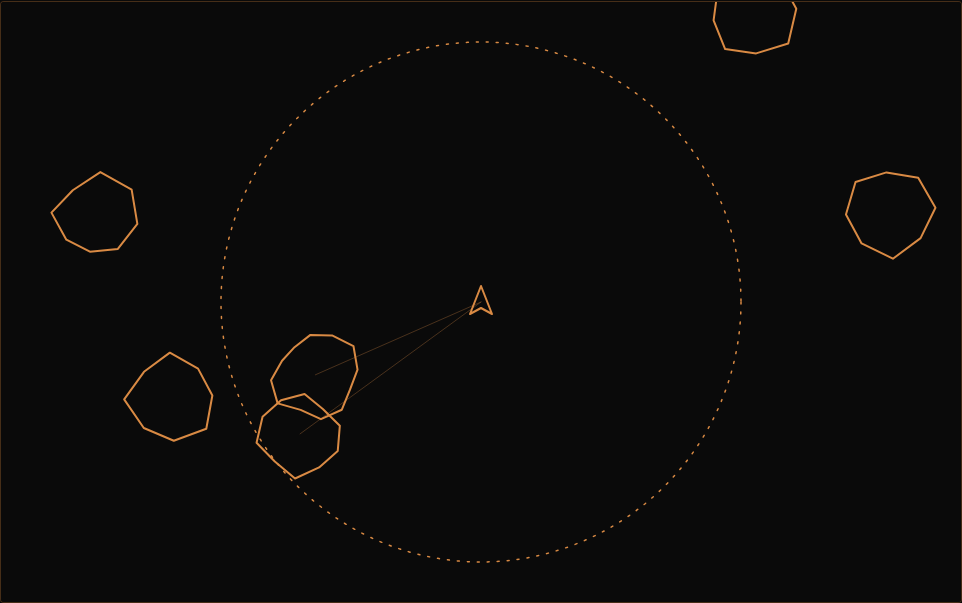
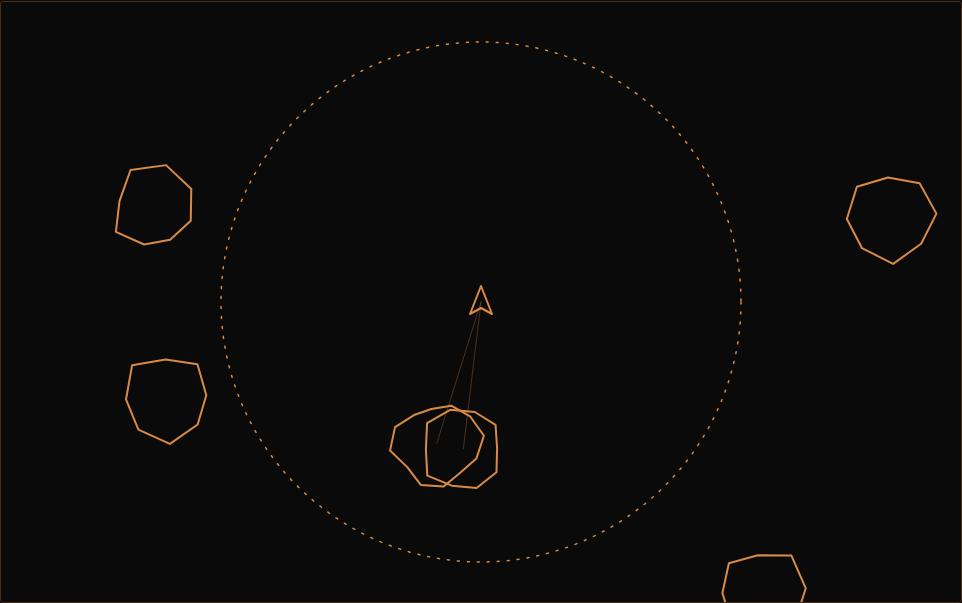
fix: vortex captures motes in orbit instead of flinging them out
The first vortex used a constant tangential force plus a small inward bias.
That isn't a real centripetal force: tangential speed accumulated to the
clamp and spiralled motes outward until they left the field's reach and flew
off — so holding both keys looked like it did nothing.

Replace it with velocity steering toward a rotating shell: a spring pulls a
mote to VORTEX_RADIUS while a tangential term gives it the orbit speed, and
its velocity tracks that target. Motes now converge onto the shell and keep
circling, captured. Verified with a sim probe (distance settles ~148 px,
angle advances steadily, speed locks to the swirl rate).

diff --git a/src/sim.ts b/src/sim.ts
@@ -35,7 +35,10 @@ const MOTE_MAX_SPEED = 360 // clamp so the field can't fling motes off to infini
 /** Reach of the ship's field, px. Exported so the view can draw the ring. */
 export const FIELD_RANGE = 260
 const FIELD_STRENGTH = 1100 // px/s^2 at the centre, falling linearly to 0 at the edge
-const VORTEX_PULL = 0.4 // vortex inward bias (fraction of the tangential force) so motes orbit instead of flinging off
+const VORTEX_RADIUS = FIELD_RANGE * 0.5 // motes settle onto this orbit shell in vortex mode
+const VORTEX_SWIRL = 240 // tangential orbit speed, px/s
+const VORTEX_SPRING = 3.5 // pull toward the shell radius, 1/s
+const VORTEX_RESPONSE = 6 // how fast a mote's velocity tracks the vortex target, 1/s
 
 function driftVel(rng: Rng, maxSpeed: number): Vec2 {
   const a = random(rng) * Math.PI * 2
@@ -136,17 +139,27 @@ function fieldMode(input: Input): FieldMode {
   return 'off'
 }
 
-// Field acceleration on a mote, given the unit vector (ux, uy) pointing FROM the mote
-// TOWARD the ship and a magnitude `mag`. attract = inward, repel = outward,
-// vortex = tangential (perpendicular) swirl plus a gentle inward bias so motes orbit.
+// Radial field acceleration for the two simple modes: attract = inward, repel = out.
+// (ux, uy) points from the mote toward the ship; `mag` already folds in the falloff.
 function fieldAccel(mode: FieldMode, ux: number, uy: number, mag: number): Vec2 {
-  if (mode === 'attract') return { x: ux * mag, y: uy * mag }
   if (mode === 'repel') return { x: -ux * mag, y: -uy * mag }
-  return { x: -uy * mag + ux * mag * VORTEX_PULL, y: ux * mag + uy * mag * VORTEX_PULL }
+  return { x: ux * mag, y: uy * mag }
 }
 
-// Drift a mote, apply the ship's polarity field (linear falloff over FIELD_RANGE),
-// clamp its speed, then move + spin it (wrapping).
+// Vortex steers a mote's velocity toward a rotating shell — a spring toward
+// VORTEX_RADIUS plus a tangential orbit speed — so motes circle the ship and stay
+// captured, instead of a constant tangential force spiralling them out of range.
+// (ux, uy) points from the mote toward the ship.
+function vortexVel(ux: number, uy: number, dist: number, vx: number, vy: number, dt: number): Vec2 {
+  const radialOut = VORTEX_SPRING * (VORTEX_RADIUS - dist) // +outward inside the shell, -inward outside
+  const targetX = -ux * radialOut + -uy * VORTEX_SWIRL // outward (-ux,-uy) + tangent (-uy, ux)
+  const targetY = -uy * radialOut + ux * VORTEX_SWIRL
+  const k = Math.min(1, VORTEX_RESPONSE * dt)
+  return { x: vx + (targetX - vx) * k, y: vy + (targetY - vy) * k }
+}
+
+// Drift a mote, apply the ship's polarity field, clamp its speed, then move + spin
+// it (wrapping).
 function stepMote(a: Asteroid, ship: Ship, width: number, height: number, dt: number): Asteroid {
   let vx = a.vel.x
   let vy = a.vel.y
@@ -155,10 +168,18 @@ function stepMote(a: Asteroid, ship: Ship, width: number, height: number, dt: nu
     const dy = ship.pos.y - a.pos.y
     const dist = Math.hypot(dx, dy)
     if (dist > 0 && dist < FIELD_RANGE) {
-      const mag = FIELD_STRENGTH * (1 - dist / FIELD_RANGE) * dt
-      const acc = fieldAccel(ship.field, dx / dist, dy / dist, mag)
-      vx += acc.x
-      vy += acc.y
+      const ux = dx / dist
+      const uy = dy / dist
+      if (ship.field === 'vortex') {
+        const v = vortexVel(ux, uy, dist, vx, vy, dt)
+        vx = v.x
+        vy = v.y
+      } else {
+        const mag = FIELD_STRENGTH * (1 - dist / FIELD_RANGE) * dt
+        const acc = fieldAccel(ship.field, ux, uy, mag)
+        vx += acc.x
+        vy += acc.y
+      }
     }
   }
   const speed = Math.hypot(vx, vy)
